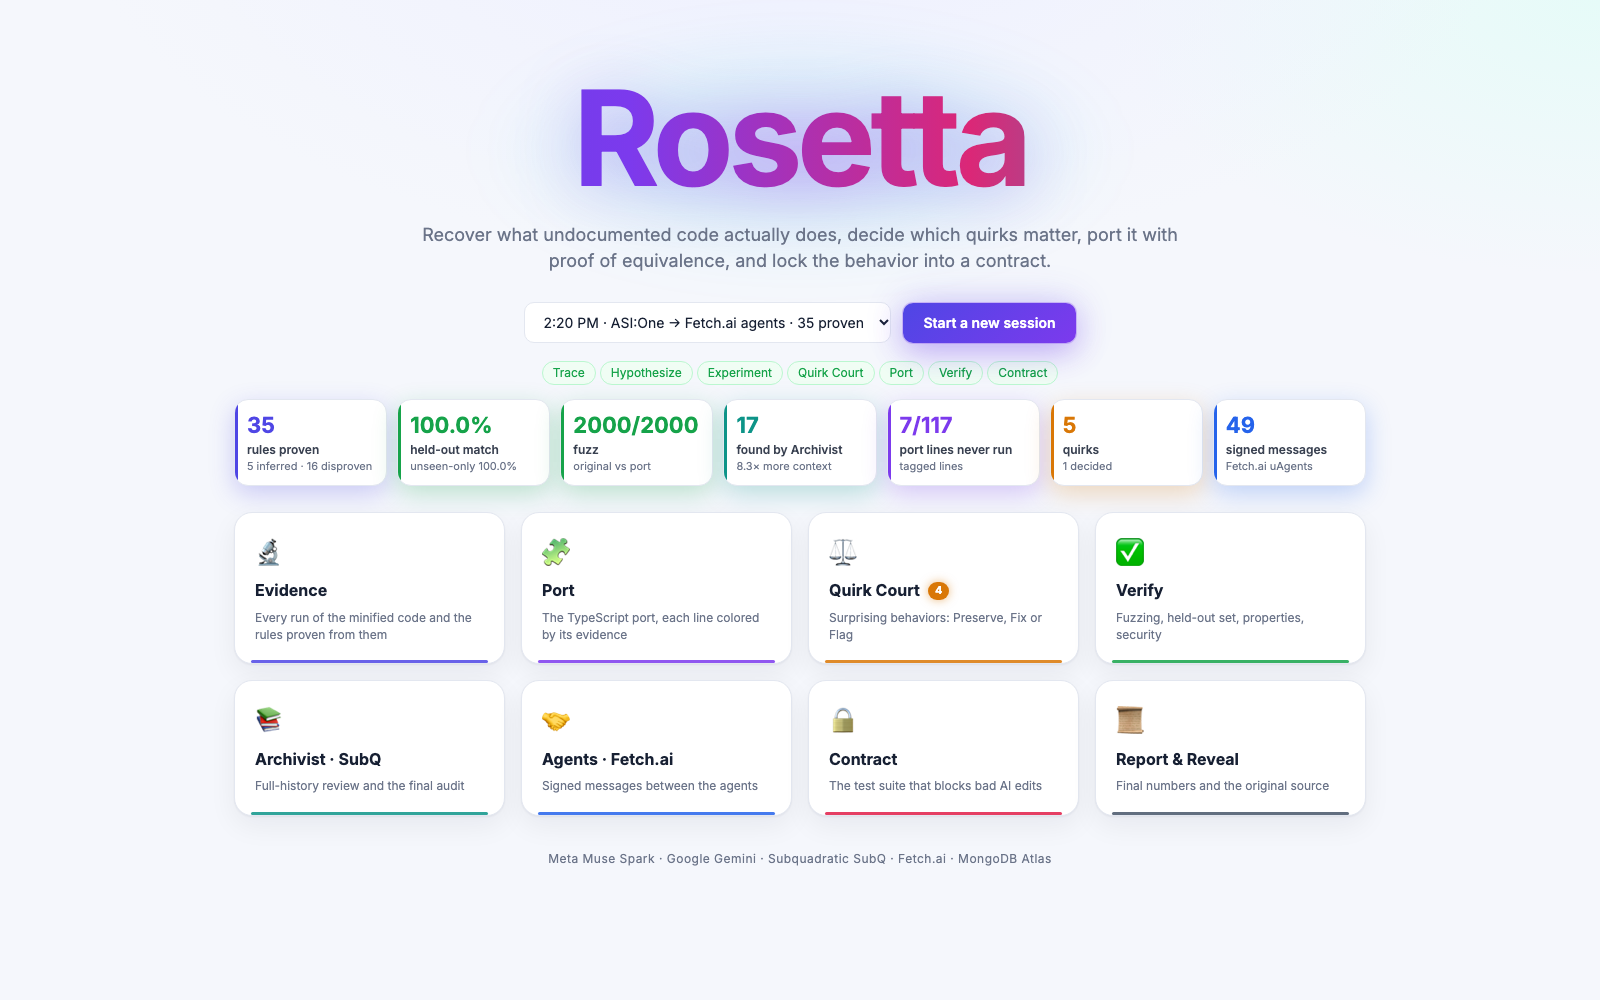
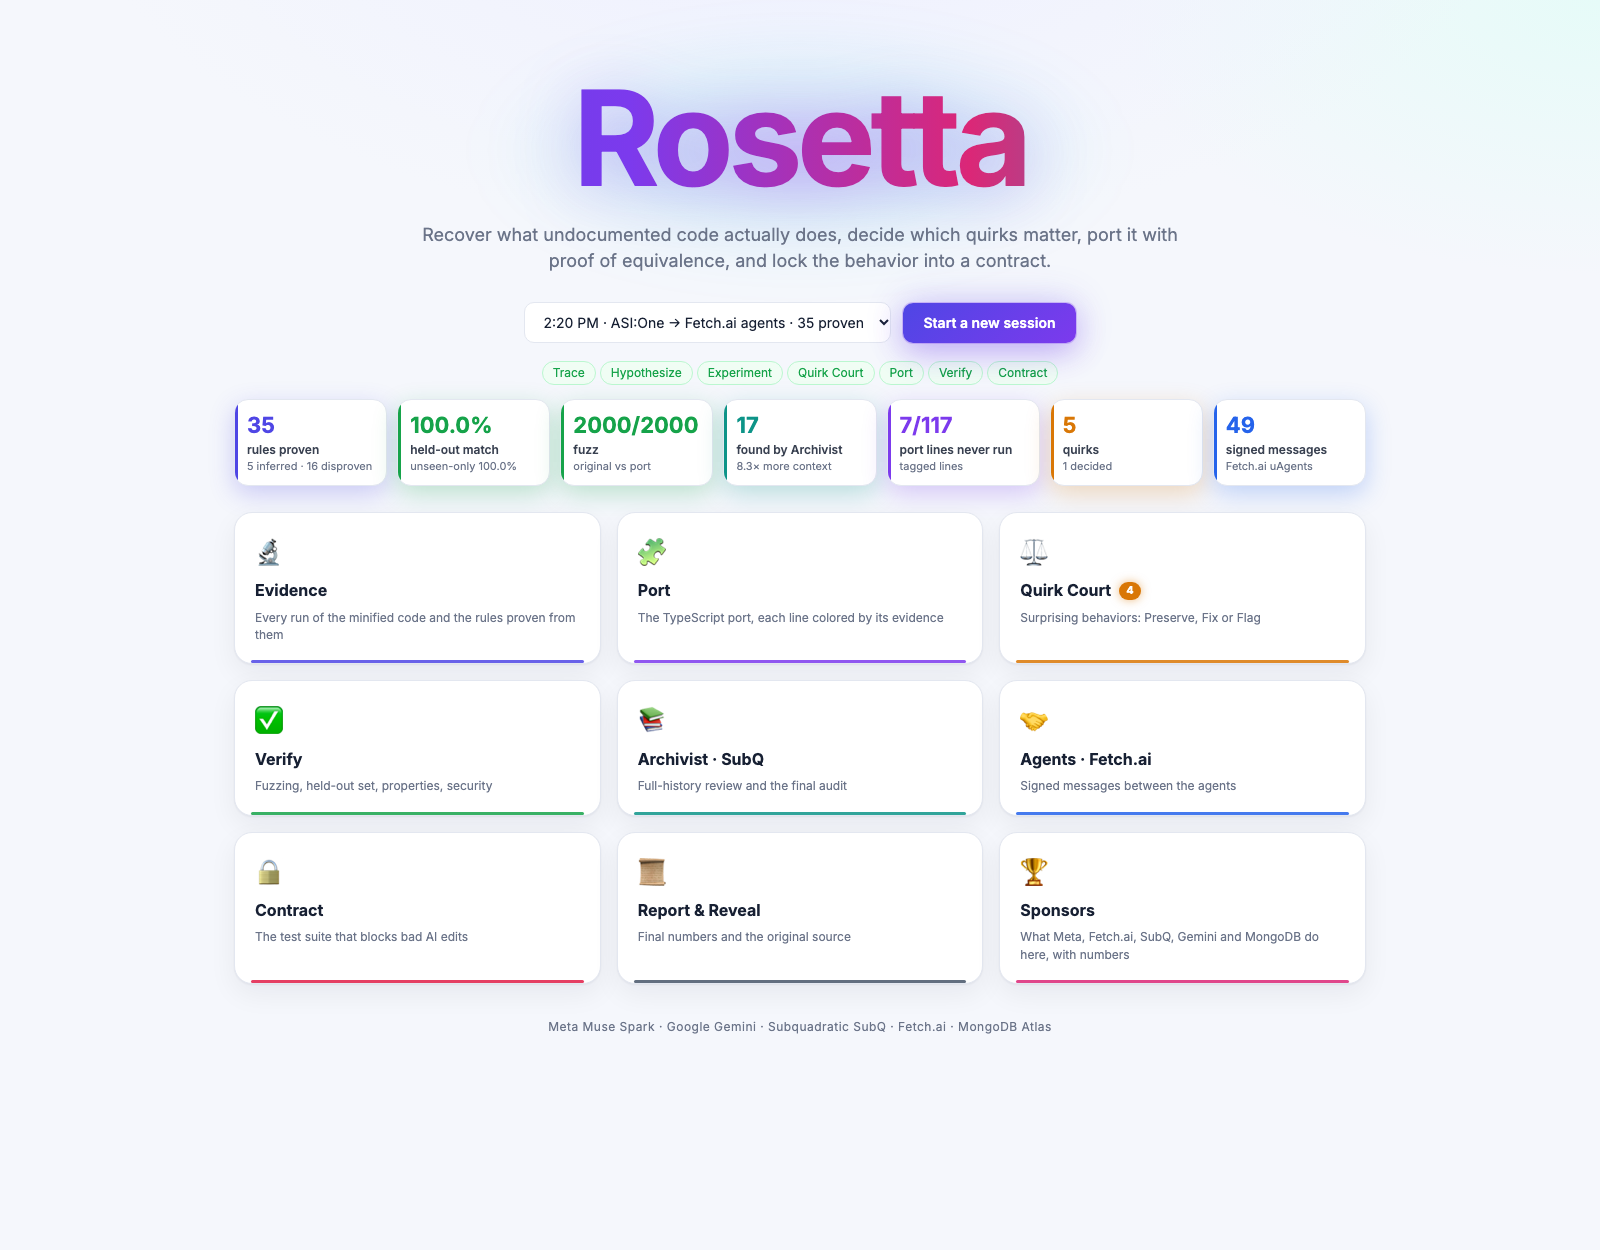
add sponsors page

Changed region(s): [[0.125, 0.062, 0.875, 0.868]]

diff --git a/ui/src/Sponsors.tsx b/ui/src/Sponsors.tsx
@@ -1,0 +1,101 @@
+// Sponsors page: what each sponsor's product does in this session, with numbers computed from stored data.
+import { useEffect, useState } from "react";
+import { getJSON } from "./timeline";
+
+const n = (x: number | null | undefined) => (x === null || x === undefined ? "–" : x.toLocaleString());
+const pct = (x: number | null | undefined) => (x === null || x === undefined ? "–" : `${(x * 100).toFixed(0)}%`);
+
+function Card({ color, logo, name, role, children }: { color: string; logo: string; name: string; role: string; children: React.ReactNode }) {
+  return (
+    <div className={`sp-card c-${color}`}>
+      <div className="sp-head"><span className="sp-logo">{logo}</span><div><div className="sp-name">{name}</div><div className="sp-role">{role}</div></div></div>
+      {children}
+    </div>
+  );
+}
+const Big = ({ v, l }: { v: string; l: string }) => <div className="sp-big"><div className="v">{v}</div><div className="l">{l}</div></div>;
+
+export function Sponsors({ sessionId, onGo }: { sessionId: string; onGo: (s: any) => void }) {
+  const [d, setD] = useState<any>(null);
+  const [err, setErr] = useState<string | null>(null);
+  useEffect(() => { getJSON(`/sessions/${sessionId}/sponsors`).then(setD).catch((e) => setErr(String(e))); }, [sessionId]);
+  if (err) return <div className="error">{err}</div>;
+  if (!d) return <div className="empty">Loading…</div>;
+  const { meta, gemini, subq, fetch: fa, mongodb } = d;
+  const firstTry = meta.ports.filter((p: any) => p.compileOk && p.attempts === 1).length;
+  return (
+    <div className="sponsors-grid">
+      <Card color="indigo" logo="Ⓜ" name="Meta Muse Spark" role="Theorist and Builder: the reasoning and the code">
+        <div className="sp-bigs">
+          <Big v={`${meta.rulesProven}/${meta.rulesProposed}`} l="rules it proposed that were proven" />
+          <Big v={`${firstTry}/${meta.ports.length}`} l="ports it wrote that compiled on the first try" />
+          <Big v={pct(meta.ports.map((p: any) => p.heldout).filter((x: any) => x !== null).pop())} l="held-out match of its port" />
+        </div>
+        <ul>
+          <li>Proposed {meta.rulesProposed} rules from real runs and designed the experiments that proved {meta.rulesProven} and disproved {meta.rulesDisproven}</li>
+          <li>Turned {meta.archivistFindingsTurnedIntoRules} Archivist findings into testable rules</li>
+          <li>Wrote the TypeScript port: {meta.ports.map((p: any) => `v${p.version} (${p.agreement ?? "?"})`).join(", ") || "none yet"}</li>
+          <li>{n(meta.total.calls)} calls · {n(meta.total.inputTokens)} in / {n(meta.total.outputTokens)} out tokens · {Object.entries(meta.roles).map(([r, v]: any) => `${r} ${v.calls}`).join(" · ")}</li>
+        </ul>
+        <button onClick={() => onGo("port")}>See the port →</button>
+      </Card>
+
+      <Card color="blue" logo="✦" name="Fetch.ai" role="Signed agents and a public agent on Agentverse">
+        <div className="sp-bigs">
+          <Big v={`${fa.verified}/${fa.messages}`} l="agent messages with a verified signature" />
+          <Big v={`${fa.agents.length || 6}`} l="agents in the Bureau" />
+          <Big v={fa.source?.kind === "agentverse" ? "ASI:One" : fa.orchestrator === "fetch" ? "web" : "n/a"} l="where this session was started" />
+        </div>
+        <ul>
+          <li>Coordinator, tracer, theorist, archivist, builder and skeptic are uAgents with their own keys; every step they run is signed, and the backend rejects a step signed by the wrong agent</li>
+          {fa.source?.kind === "agentverse" && <li>Requested by <span className="mono">{String(fa.source.caller).slice(0, 22)}…</span> in ASI:One: "{String(fa.source.request).replace(/^(\s*@\S+)+\s*/, "")}"</li>}
+          <li>Public agent <b>rosetta</b> on Agentverse: <span className="mono">{String(fa.serviceAgent).slice(0, 22)}…</span>, with Quirk Court cards in ASI:One</li>
+          <li>{fa.signedSteps} pipeline steps signed and verified{fa.rejected ? `, ${fa.rejected} rejected` : ""}</li>
+        </ul>
+        <button onClick={() => onGo("agents")}>See the signed messages →</button>
+      </Card>
+
+      <Card color="teal" logo="◈" name="Subquadratic SubQ" role="Archivist: the whole history in one request">
+        <div className="sp-bigs">
+          <Big v={subq.lastContext ? `${subq.lastContext.ratio.toFixed(1)}×` : "–"} l={`more context than the Theorist (${n(subq.lastContext?.archivistTokens)} vs ${n(subq.lastContext?.theoristTokens)} tokens)`} />
+          <Big v={`${subq.rulesFound}`} l={`rules found that the Theorist didn't propose (${subq.rulesFoundProven} proven)`} />
+          <Big v={subq.audit ? `${subq.audit.rulesChecked}` : "–"} l="port tags checked in the final audit" />
+        </div>
+        <ul>
+          <li>{subq.reviews} full-history reviews, {subq.lastContext?.questions ?? "–"} questions each, one request per round</li>
+          <li>Gaps found: {Object.entries(subq.findings).map(([k, v]: any) => `${k.replace("_", " ")} ${v}`).join(" · ")}</li>
+          {subq.audit && <li>Final audit of port v{subq.audit.portVersion}: {Object.entries(subq.audit.counts).map(([k, v]: any) => `${k.replace(/_/g, " ")} ${v}`).join(" · ")}</li>}
+        </ul>
+        <button onClick={() => onGo("archivist")}>See the Archivist →</button>
+      </Card>
+
+      <Card color="green" logo="◆" name="Google Gemini" role="Independent checks, a different model from the Theorist">
+        <div className="sp-bigs">
+          <Big v={`${gemini.properties.hold}/${gemini.properties.proposed}`} l={`property tests that hold (${gemini.properties.discarded} wrong ones discarded)`} />
+          <Big v={`${gemini.quirksFlagged}`} l="surprising behaviors flagged for Quirk Court" />
+          <Big v={`${gemini.seeds}`} l="seed runs from its inputs" />
+        </div>
+        <ul>
+          <li>Writes property tests seeing only the proven rules, not the Theorist's reasoning</li>
+          <li>Turned {gemini.fixChecks} Fix decision{gemini.fixChecks === 1 ? "" : "s"} into checks; rated security risk</li>
+          <li>Stepped in for Meta {gemini.fallbacksForMeta} time{gemini.fallbacksForMeta === 1 ? "" : "s"}{gemini.portsWritten ? `, including ${gemini.portsWritten} port` : ""}</li>
+          <li>{n(gemini.total.calls)} calls · {n(gemini.total.inputTokens)} in / {n(gemini.total.outputTokens)} out tokens</li>
+        </ul>
+        <button onClick={() => onGo("verify")}>See Verify →</button>
+      </Card>
+
+      <Card color="slate" logo="⬢" name="MongoDB Atlas" role="The ledger and the replay log">
+        <div className="sp-bigs">
+          <Big v={n(mongodb.totalDocuments)} l="documents stored for this session" />
+          <Big v={n(mongodb.observations)} l="recorded runs of the original" />
+          <Big v={n(mongodb.events)} l="events, used to replay the session" />
+        </div>
+        <ul>
+          <li>{Object.entries(mongodb.documents).filter(([, v]: any) => v > 0).map(([k, v]: any) => `${k} ${v}`).join(" · ")}</li>
+          <li>Store: {mongodb.store === "mongo" ? "MongoDB Atlas" : "in-memory fallback"}</li>
+        </ul>
+        <button onClick={() => onGo("evidence")}>See the evidence →</button>
+      </Card>
+    </div>
+  );
+}

diff --git a/src/server.ts b/src/server.ts
@@ -190,6 +190,75 @@ app.post<{ Params: { id: string } }>("/sessions/:id/stop", async (req) => {
   return { ok: true };
 });
 
+// Sponsors page: per-sponsor usage for one session, computed from stored data (nothing hardcoded)
+app.get<{ Params: { id: string } }>("/sessions/:id/sponsors", async (req) => {
+  const sessionId = req.params.id;
+  const store = await getStore();
+  const [session] = await store.find<any>("sessions", { sessionId });
+  const events = await store.find<any>("events", { sessionId });
+  const llm = events.filter((e) => e.type === "llm_call").map((e) => e.payload);
+  const by = (pred: (c: any) => boolean) => {
+    const xs = llm.filter(pred);
+    return { calls: xs.length, inputTokens: xs.reduce((a, c) => a + (c.inputTokens ?? 0), 0), outputTokens: xs.reduce((a, c) => a + (c.outputTokens ?? 0), 0), seconds: Math.round(xs.reduce((a, c) => a + (c.latencyMs ?? 0), 0) / 1000) };
+  };
+  const roles = (provider: string) => Object.fromEntries([...new Set(llm.filter((c) => c.provider === provider).map((c) => c.agent))].map((a) => [a, by((c) => c.provider === provider && c.agent === a)]));
+  const hyps = await store.find<any>("hypotheses", { sessionId });
+  const count = (xs: any[], st: string) => xs.filter((h) => h.status === st).length;
+  const theorist = hyps.filter((h) => h.source === "theorist" && h.category !== "security");
+  const archivist = hyps.filter((h) => h.source === "archivist");
+  const ports = await store.find<any>("ports", { sessionId }, { sort: { version: 1 } });
+  const verifies = await store.find<any>("verify_reports", { sessionId }, { sort: { createdAt: 1 } });
+  const props = await store.find<any>("properties", { sessionId });
+  const quirks = await store.find<any>("quirks", { sessionId });
+  const reviews = events.filter((e) => e.type === "archivist_review").map((e) => e.payload);
+  const findings = await store.find<any>("archivist_findings", { sessionId });
+  const distinct = new Map(findings.map((f) => [`${f.type}:${f.fid ?? f.hid ?? f.category}`, f]));
+  const [audit] = await store.find<any>("port_audits", { sessionId }, { sort: { createdAt: -1 }, limit: 1 });
+  const msgs = await store.find<any>("agent_messages", { sessionId });
+  const prov = await store.find<any>("provenance", { sessionId });
+  const obs = await store.count("observations", { sessionId });
+  const metaPorts = ports.filter((p) => p.provider === "meta");
+  const heldFor = (v: number) => verifies.filter((x) => x.portVersion === v).pop()?.heldout?.matchRate ?? null;
+  const collections = ["observations", "hypotheses", "quirks", "ports", "verify_reports", "diff_results", "properties", "contracts", "archivist_findings", "bundle_maps", "port_audits", "security_reports", "agent_messages", "provenance", "events", "reports"];
+  const docs: Record<string, number> = {};
+  for (const c of collections) docs[c] = await store.count(c, { sessionId });
+  return {
+    meta: {
+      model: "muse-spark-1.1", total: by((c) => c.provider === "meta"), roles: roles("meta"),
+      rulesProposed: theorist.length, rulesProven: count(theorist, "proven"), rulesDisproven: count(theorist, "disproven"),
+      archivistFindingsTurnedIntoRules: archivist.length,
+      ports: metaPorts.map((p) => ({ version: p.version, compileOk: p.compileOk, attempts: p.attempts, heldout: heldFor(p.version), agreement: p.agreement ? `${p.agreement.equal}/${p.agreement.total}` : null })),
+    },
+    gemini: {
+      model: "gemini-3.8-flash", total: by((c) => c.provider === "gemini"), roles: roles("gemini"),
+      seeds: await store.count("observations", { sessionId, source: "seed" }),
+      properties: { proposed: props.length, hold: props.filter((x) => x.status === "holds").length, discarded: props.filter((x) => x.status === "wrong_property").length, portFails: props.filter((x) => x.status === "port_fails").length },
+      quirksFlagged: quirks.filter((q) => !q.security).length,
+      fixChecks: quirks.filter((q) => q.fixPredicate).length,
+      fallbacksForMeta: events.filter((e) => e.type === "provider_switched").length,
+      portsWritten: ports.filter((p) => p.provider === "gemini").length,
+    },
+    subq: {
+      model: "subq-snap-1.1", total: by((c) => c.provider === "subq"),
+      reviews: reviews.length,
+      lastContext: reviews.length ? { archivistTokens: reviews[reviews.length - 1].archivistTokens, theoristTokens: reviews[reviews.length - 1].theoristTokens, ratio: reviews[reviews.length - 1].ratio, questions: reviews[reviews.length - 1].questions } : null,
+      rulesFound: archivist.length, rulesFoundProven: count(archivist, "proven"),
+      findings: [...distinct.values()].reduce<Record<string, number>>((m, f: any) => ((m[f.type] = (m[f.type] ?? 0) + 1), m), {}),
+      audit: audit ? { portVersion: audit.portVersion, rulesChecked: audit.rulesChecked, counts: audit.counts, tokens: audit.subq?.inputTokens ?? null } : null,
+      neverExecuted: ports.filter((p) => p.evidenceSummary).map((p) => ({ version: p.version, never: p.evidenceSummary.neverExecuted, tagged: p.evidenceSummary.tagged })),
+    },
+    fetch: {
+      orchestrator: session?.orchestrator, source: session?.source ?? null,
+      agents: [...new Set(msgs.map((m) => m.fromName))],
+      messages: msgs.length, verified: msgs.filter((m) => m.verified === true).length,
+      signedSteps: prov.filter((p) => p.verified === true).length, rejected: prov.filter((p) => p.verified !== true && p.verified !== "unsigned-fallback").length,
+      serviceAgent: ALLOWLIST["rosetta_service"] ?? null,
+      addresses: ALLOWLIST,
+    },
+    mongodb: { store: store.kind, observations: obs, documents: docs, totalDocuments: Object.values(docs).reduce((a, b) => a + b, 0), events: events.length },
+  };
+});
+
 // Reveal: the ONLY code path that reads ground_truth/, and only after the session is done.
 app.get<{ Params: { id: string } }>("/sessions/:id/reveal", async (req, reply) => {
   const [session] = await (await getStore()).find<any>("sessions", { sessionId: req.params.id });

diff --git a/ui/src/App.tsx b/ui/src/App.tsx
@@ -2,10 +2,11 @@ import { useCallback, useEffect, useMemo, useRef, useState } from "react";
 import { API, getJSON, postJSON, snapshotAt, ts, PHASES, type Ev, type View } from "./timeline";
 import { PortViewer } from "./PortViewer";
 import { TracePanel, HypothesesPanel, QuirkCourt, Drawer } from "./panels";
+import { Sponsors } from "./Sponsors";
 
 const PHASE_LABEL: Record<string, string> = { trace: "Trace", hypothesize: "Hypothesize", experiment: "Experiment", quirk_court: "Quirk Court", port: "Port", verify: "Verify", contract: "Contract" };
 
-type Section = "home" | "evidence" | "port" | "court" | "verify" | "archivist" | "agents" | "contract" | "history" | "report" | "reveal";
+type Section = "home" | "sponsors" | "evidence" | "port" | "court" | "verify" | "archivist" | "agents" | "contract" | "history" | "report" | "reveal";
 
 const SECTIONS: { id: Section; label: string; icon: string; color: string; blurb: string }[] = [
   { id: "evidence", label: "Evidence", icon: "🔬", color: "indigo", blurb: "Every run of the minified code and the rules proven from them" },
@@ -16,6 +17,7 @@ const SECTIONS: { id: Section; label: string; icon: string; color: string; blurb
   { id: "agents", label: "Agents · Fetch.ai", icon: "🤝", color: "blue", blurb: "Signed messages between the agents" },
   { id: "contract", label: "Contract", icon: "🔒", color: "rose", blurb: "The test suite that blocks bad AI edits" },
   { id: "report", label: "Report & Reveal", icon: "📜", color: "slate", blurb: "Final numbers and the original source" },
+  { id: "sponsors", label: "Sponsors", icon: "🏆", color: "pink", blurb: "What Meta, Fetch.ai, SubQ, Gemini and MongoDB do here, with numbers" },
 ];
 // old ?tab= links (README, screenshots) map onto sections
 const TAB_TO_SECTION: Record<string, Section> = { verify: "verify", archivist: "archivist", agents: "agents", contract: "contract", history: "history", report: "report", reveal: "reveal" };
@@ -209,7 +211,7 @@ export function App() {
       {!view && <div className="empty">Loading…</div>}
       {view && (
         <main className="section">
-          {section !== "report" && section !== "reveal" && <Kpis view={view} session={state.session} />}
+          {section !== "report" && section !== "reveal" && section !== "sponsors" && <Kpis view={view} session={state.session} />}
           {section === "evidence" && (
             <div className="two">
               <TracePanel view={view} evidence={evidence} />
@@ -231,6 +233,7 @@ export function App() {
             </div>
           )}
           {section === "reveal" && <Drawer view={view} sessionId={sid!} session={state.session} tab="reveal" hideTabs />}
+          {section === "sponsors" && <Sponsors sessionId={sid!} onGo={setSection} />}
         </main>
       )}
     </div>

diff --git a/ui/src/styles.css b/ui/src/styles.css
@@ -190,3 +190,21 @@ button.danger { border-color: #f8514966; color: var(--red); } button.danger:hove
 .pill.live-dot { border-color: var(--green); color: var(--green); box-shadow: 0 0 12px rgba(22, 163, 74, .35); }
 @media (max-width: 1100px) { .tiles { grid-template-columns: repeat(2, 1fr); } .kpis { grid-template-columns: repeat(2, 1fr); } .two { grid-template-columns: 1fr; height: auto; } .bar { flex-wrap: wrap; } }
 .kpis .kv { white-space: nowrap; overflow: hidden; text-overflow: ellipsis; font-size: 20px; } .kpis.big .kv { font-size: 22px; }
+
+.c-pink { --accent: #db2777; --accent-glow: rgba(219, 39, 119, .25); }
+.tiles { grid-template-columns: repeat(3, 1fr); }
+.sponsors-grid { display: grid; grid-template-columns: repeat(2, 1fr); gap: 16px; }
+.sp-card { background: #fff; border: 1px solid var(--line); border-radius: 18px; padding: 18px; position: relative; overflow: hidden; box-shadow: 0 10px 30px var(--accent-glow); }
+.sp-card::before { content: ""; position: absolute; left: 0; right: 0; top: 0; height: 4px; background: var(--accent); }
+.sp-card:last-child { grid-column: span 2; }
+.sp-head { display: flex; gap: 12px; align-items: center; margin-bottom: 10px; }
+.sp-logo { width: 42px; height: 42px; border-radius: 12px; display: inline-flex; align-items: center; justify-content: center; font-size: 22px; color: #fff; background: var(--accent); box-shadow: 0 0 18px var(--accent-glow); }
+.sp-name { font-weight: 800; font-size: 18px; } .sp-role { color: var(--muted); font-size: 13px; }
+.sp-bigs { display: grid; grid-template-columns: repeat(3, 1fr); gap: 10px; margin: 6px 0 10px; }
+.sp-big { background: var(--panel2); border-radius: 12px; padding: 10px; } .sp-big .v { font-size: 26px; font-weight: 800; color: var(--accent); } .sp-big .l { font-size: 12px; color: var(--muted); }
+.sp-card ul { margin: 0 0 10px; padding-left: 18px; font-size: 13px; } .sp-card li { margin: 3px 0; }
+.incoming { border: 1px solid #93c5fd; background: linear-gradient(135deg, #eff6ff, #f5f3ff); border-radius: 14px; padding: 12px 14px; margin-bottom: 10px; box-shadow: 0 0 22px rgba(37, 99, 235, .18); }
+.in-tag { display: inline-block; font-size: 11px; font-weight: 700; color: #fff; background: #2563eb; border-radius: 999px; padding: 2px 10px; margin-bottom: 4px; box-shadow: 0 0 12px rgba(37, 99, 235, .45); }
+@media (max-width: 1100px) { .sponsors-grid { grid-template-columns: 1fr; } .sp-card:last-child { grid-column: auto; } .tiles { grid-template-columns: repeat(2, 1fr); } }
+.pills { flex-wrap: nowrap; overflow-x: auto; scrollbar-width: none; } .pills::-webkit-scrollbar { display: none; }
+.pill-btn { padding: 5px 10px !important; font-size: 12.5px; white-space: nowrap; } .bar-right .picker { max-width: 230px; }

diff --git a/ui/src/panels.tsx b/ui/src/panels.tsx
@@ -156,6 +156,13 @@ export function AgentsPanel({ view, session }: { view: View; session: any }) {
   return (
     <div className="pane agents">
       <div className="panel-h"><h3>Agents <span className="muted">Fetch.ai uAgents</span></h3><span className="muted">{fetchMode ? `${msgs.length} signed messages` : "Node orchestrator · entries unsigned (fallback)"}</span></div>
+      {session?.source?.kind === "agentverse" && (
+        <div className="incoming">
+          <span className="in-tag">Incoming request via Agentverse</span>
+          <div>Caller <span className="mono">{String(session.source.caller).slice(0, 30)}…</span> (ASI:One) asked: <b>"{String(session.source.request).replace(/^(\s*@\S+)+\s*/, "")}"</b></div>
+          <div className="muted small">The session was started from chat and run by the agents below; every step is signed by the agent that ran it.</div>
+        </div>
+      )}
       <div className="agents-body">
         <svg viewBox="0 0 300 190" className="net">
           {NODES.map((n) => {

diff --git a/README.md b/README.md
@@ -218,6 +218,10 @@ Every port version, with the model that wrote it, the compile result, mismatches
 ![Reveal](docs/screenshots/09-reveal.png)
 The original `ms` source sits behind a path allowlist the agents can't get past. Only the Reveal page reads it, and only after the session ends.
 
+### Sponsors
+![Sponsors](docs/screenshots/14-sponsors.png)
+One page per session showing what each sponsor's product did, computed from the stored data (`GET /sessions/:id/sponsors`). In session A, for example: 32 of the 39 rules Muse Spark proposed were proven, and both ports it wrote compiled on the first try; 49 of 49 agent messages had a verified signature; SubQ saw 8.3× more context than the Theorist and found 17 rules; 20 of 23 Gemini property tests held; and 1,028 MongoDB documents were stored. For sessions started from ASI:One, the Agents page also shows the incoming request: the caller's address and what they asked.
+
 ### ASI:One
 | Progress card | Quirk Court cards | Report card |
 |---|---|---|
@@ -321,7 +325,7 @@ agents/.venv/bin/python agents/bureau.py     # Fetch.ai agents (optional)
 agents/.venv/bin/python agents/service.py    # rosetta agent on Agentverse / ASI:One (optional)
 ```
 
-- **Web UI:** open `http://localhost:8787` and click Start session (about 12 minutes). Replay a finished session with `?session=<id>&mode=replay`, open a section with `&view=evidence|port|court|verify|archivist|agents|contract|history|report|reveal`, and pick a port version with `&port=<n>`. `&view=contract&edit=plural` loads and runs the example edit.
+- **Web UI:** open `http://localhost:8787` and click Start session (about 12 minutes). Replay a finished session with `?session=<id>&mode=replay`, open a section with `&view=evidence|port|court|verify|archivist|agents|contract|history|report|reveal|sponsors`, and pick a port version with `&port=<n>`. `&view=contract&edit=plural` loads and runs the example edit.
 - **ASI:One:** send `@agent1q0j9cd9fn0krw3q87h4djuhgpy49nglx2ltwkpz43l2vuwqy0xnxc7q65f5 demo` or paste a JS module, then use `status` and `quirks`.
 - **CLI:** `npm run e2e` runs the full pipeline in a new session and writes `out/ms.port.ts`, `out/contract.test.ts` and `out/report.json`.
 
